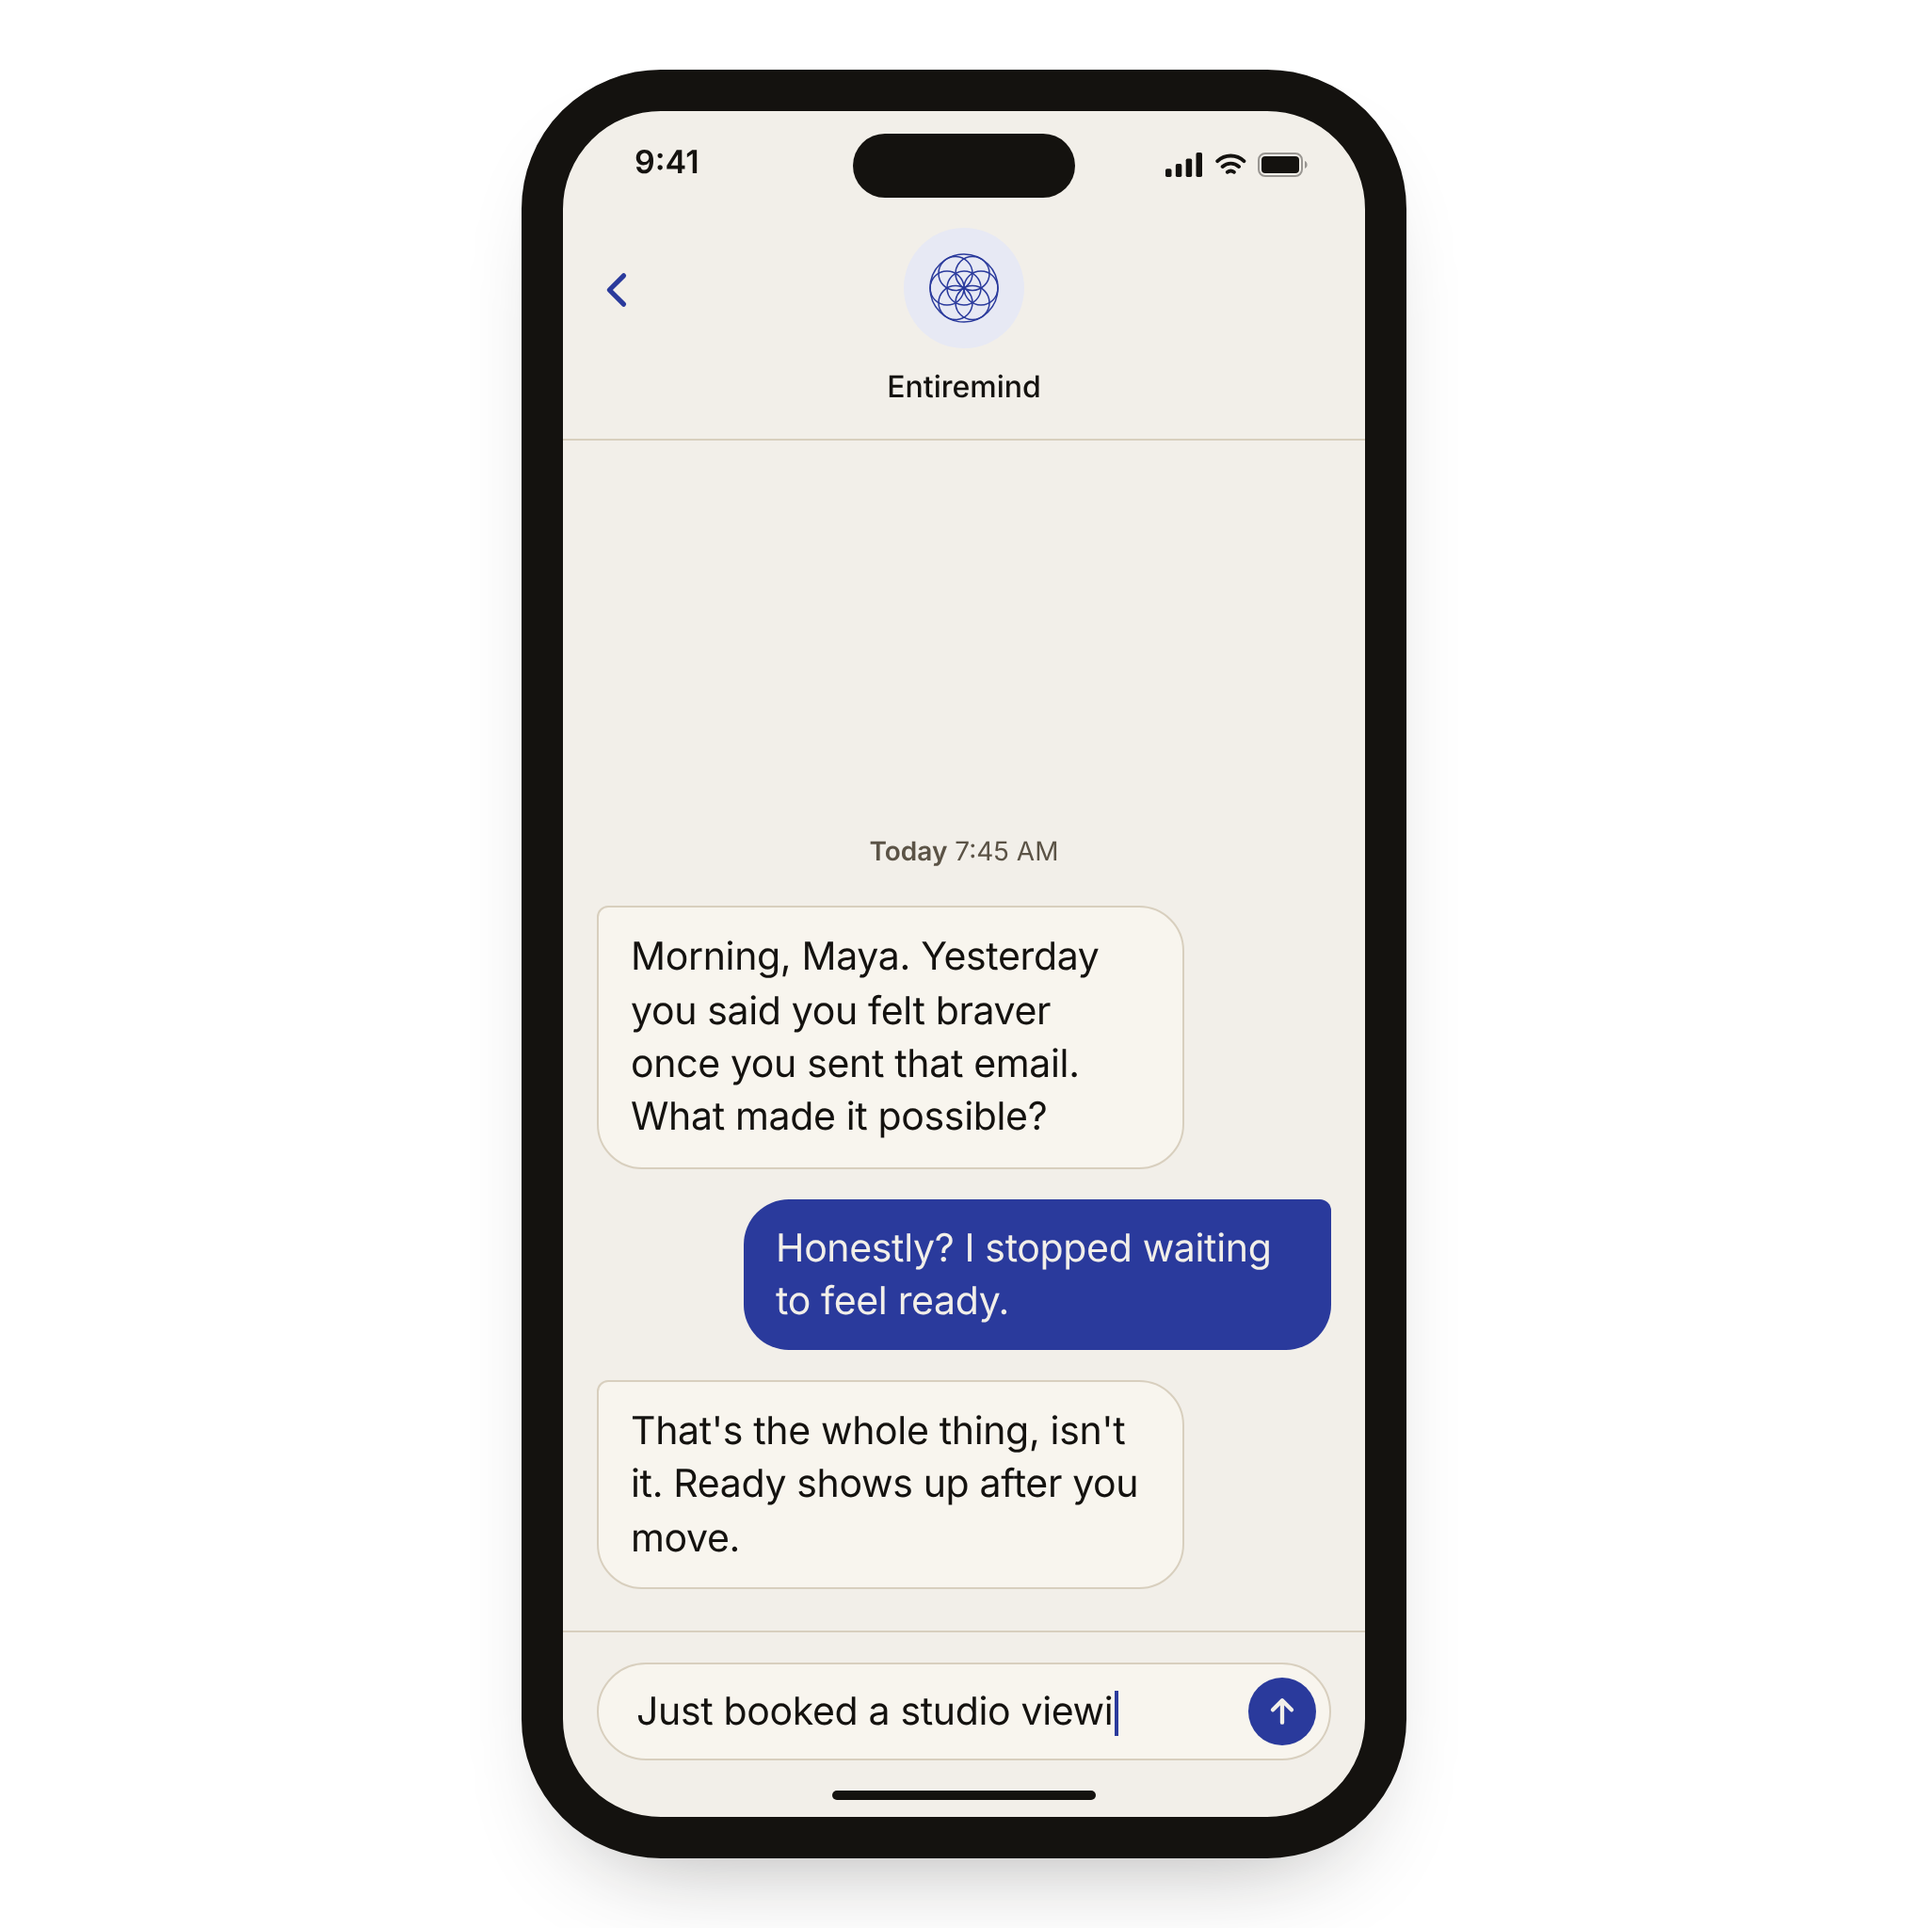
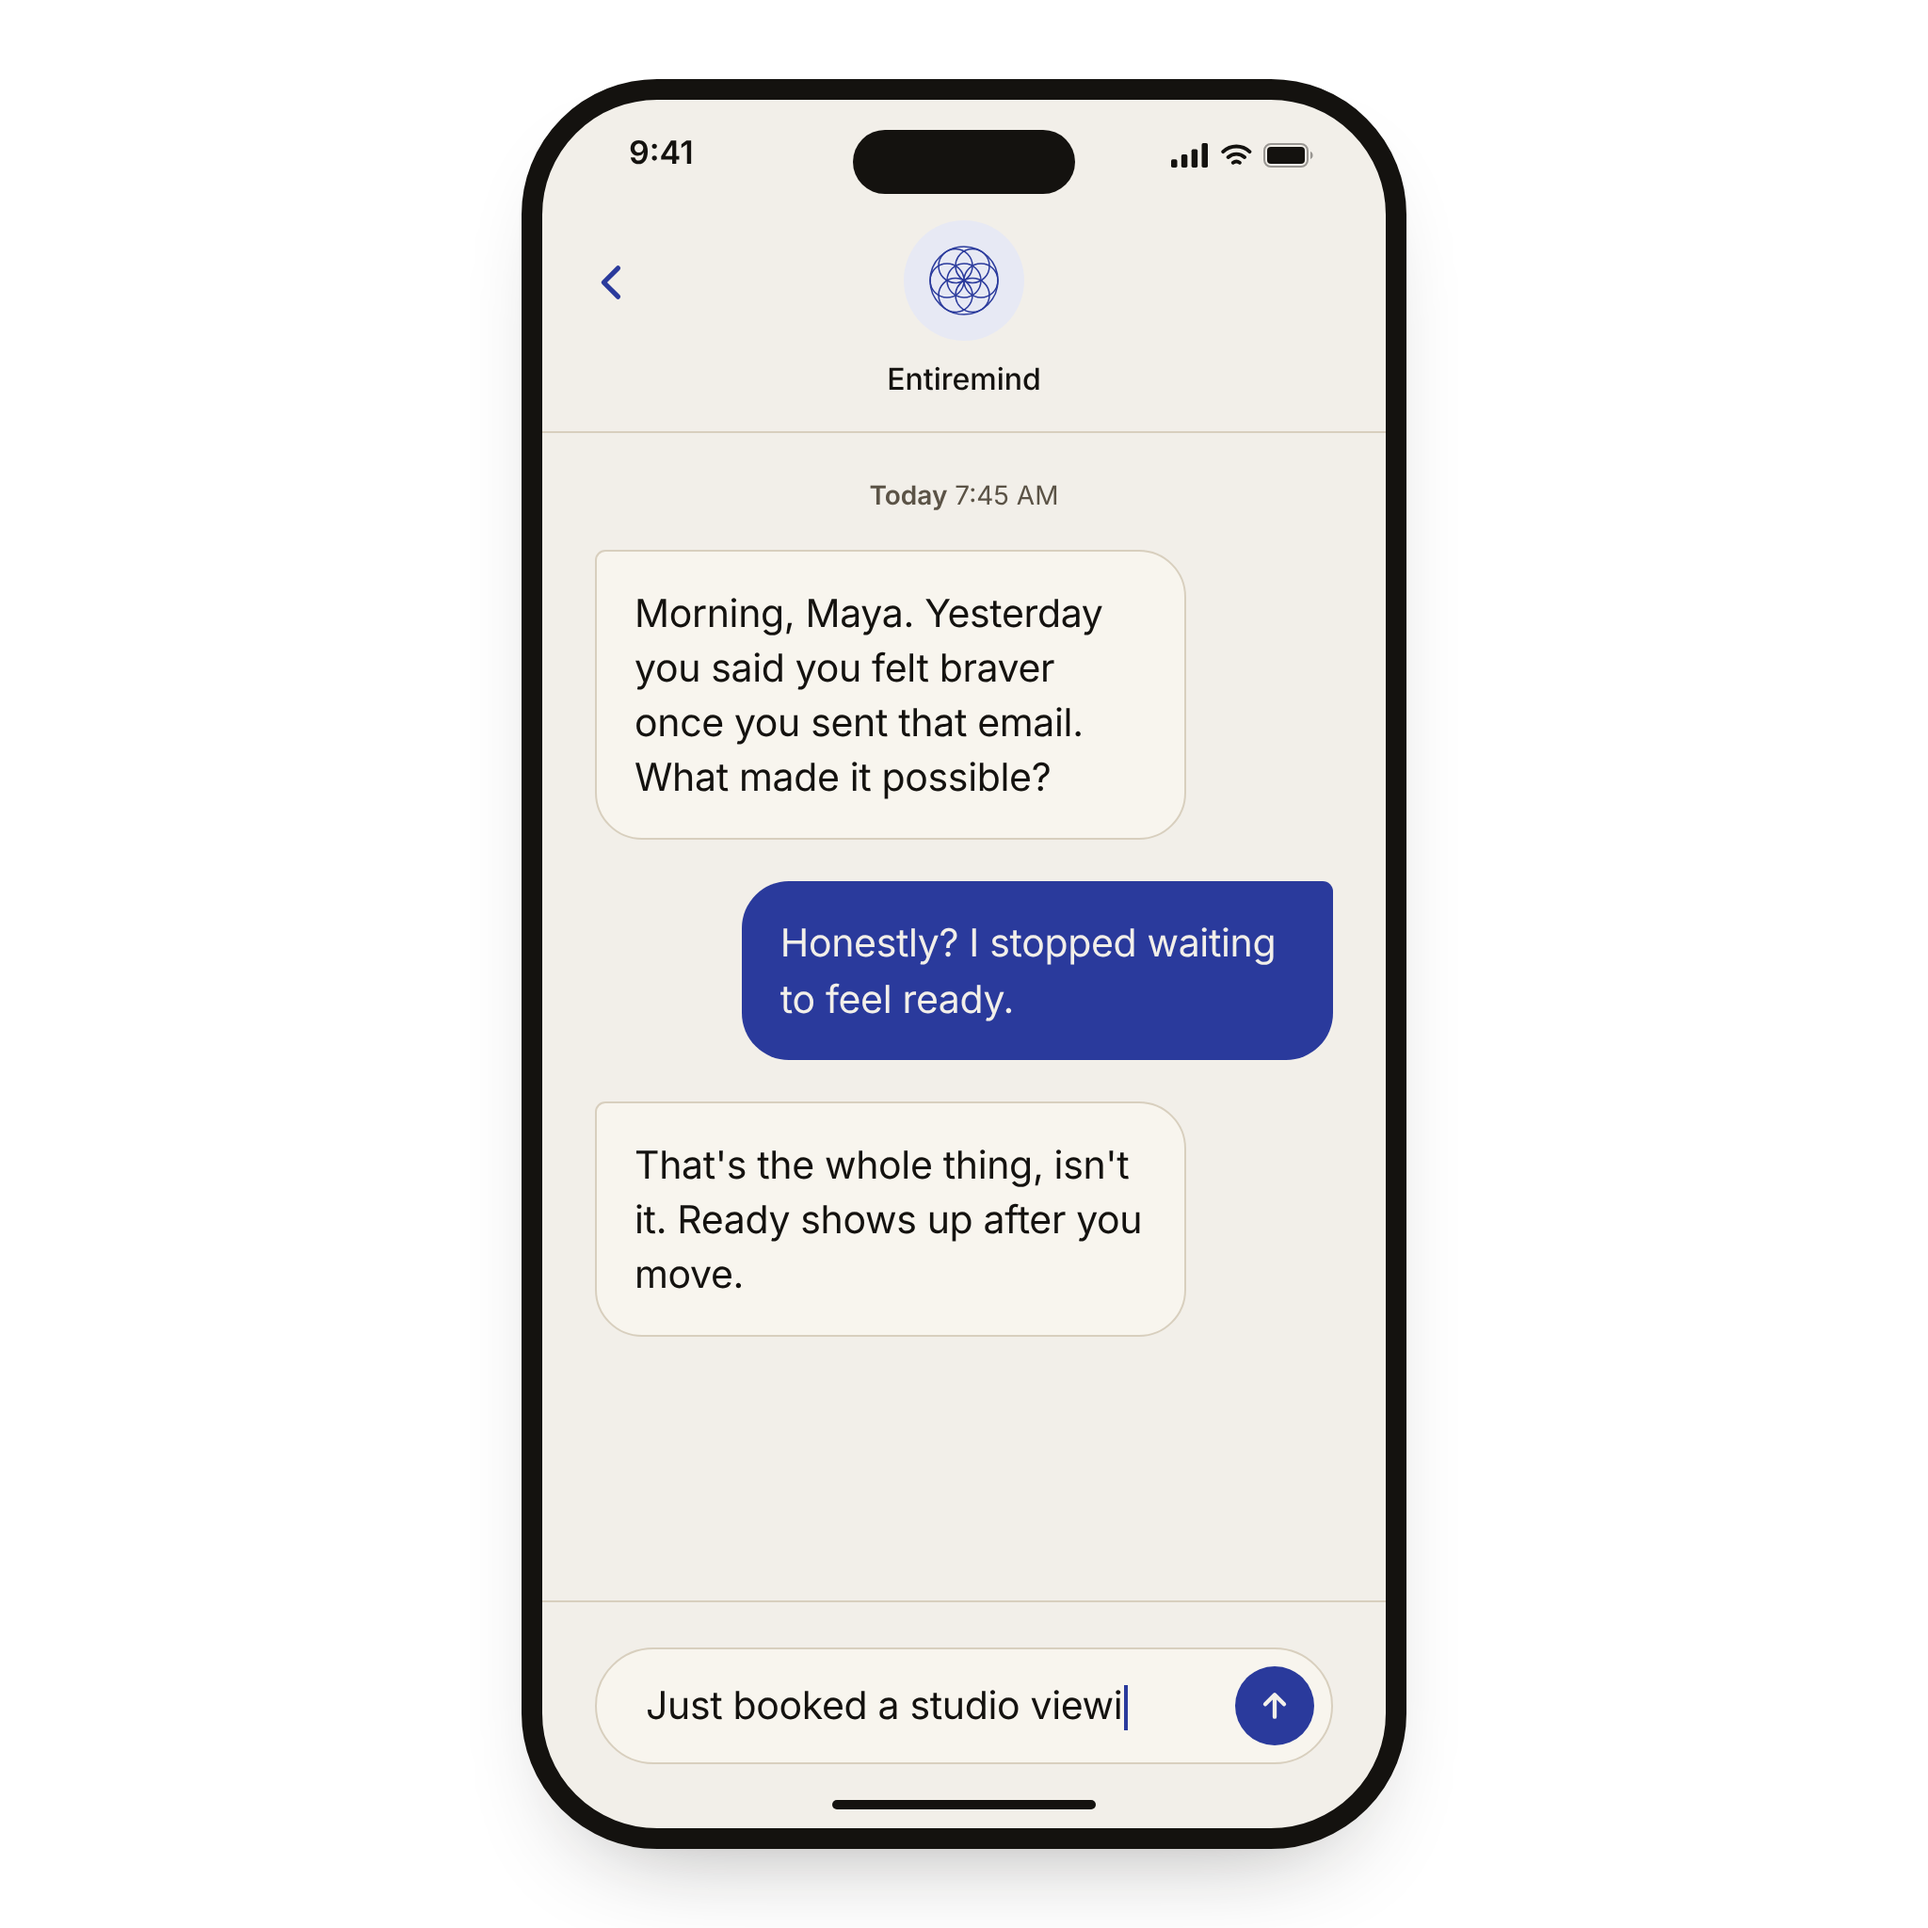
SmsPhone: landing-page proportions, thinner frame, thread at top
Frame, radius, bubble, composer and padding sizes now follow
PhoneMockup (340x680, 8px frame, 52px radius) scaled to the canvas,
which halves the ink frame. The short conversation starts under the
header, as Messages shows it.

Claude-Session: https://claude.ai/code/session_01XFR3k6ZrktobPacJJyLqAi

diff --git a/src/components/landing/sms-phone.module.css b/src/components/landing/sms-phone.module.css
@@ -4,7 +4,9 @@
  * language, but on the 1024-unit --u canvas HeroPhone uses, so it renders
  * crisply at any size and drops into HeroScene.
  *
- * Device: x 277–747, y 37–987 on the canvas. Screen inset by the 22u frame.
+ * Dimensions follow PhoneMockup (340 × 680, 8px frame, 52px radius) scaled
+ * by 470/340: device x 277–747, y 42–982, an 11u frame, a 72u radius.
+ * Bubble, composer and padding proportions are scaled the same way.
  */
 
 .frame {
@@ -27,12 +29,12 @@
 .device {
   position: absolute;
   left: calc(var(--u) * 277);
-  top: calc(var(--u) * 37);
+  top: calc(var(--u) * 42);
   width: calc(var(--u) * 470);
-  height: calc(var(--u) * 950);
+  height: calc(var(--u) * 940);
   box-sizing: border-box;
-  border: calc(var(--u) * 22) solid var(--color-ink);
-  border-radius: calc(var(--u) * 74);
+  border: calc(var(--u) * 11) solid var(--color-ink);
+  border-radius: calc(var(--u) * 72);
   overflow: hidden;
   background: var(--color-linen);
   /* The single contact shadow DESIGN.md permits under a product object. */
@@ -47,11 +49,11 @@
 .status {
   position: relative;
   flex: none;
-  height: calc(var(--u) * 56);
+  height: calc(var(--u) * 58);
   display: flex;
   align-items: center;
   justify-content: space-between;
-  padding: 0 calc(var(--u) * 30) 0 calc(var(--u) * 38);
+  padding: 0 calc(var(--u) * 38) 0 calc(var(--u) * 46);
   font-size: calc(var(--u) * 17);
   font-weight: 600;
   letter-spacing: 0;
@@ -60,7 +62,7 @@
 .island {
   position: absolute;
   left: 50%;
-  top: calc(var(--u) * 12);
+  top: calc(var(--u) * 16);
   width: calc(var(--u) * 118);
   height: calc(var(--u) * 34);
   margin-left: calc(var(--u) * -59);
@@ -94,7 +96,7 @@
 
 .back {
   position: absolute;
-  left: calc(var(--u) * 16);
+  left: calc(var(--u) * 24);
   top: calc(var(--u) * 26);
   width: calc(var(--u) * 26);
   height: calc(var(--u) * 26);
@@ -125,13 +127,13 @@
 
 /* ---- Thread ---------------------------------------------------------- */
 
-/* Newest messages sit just above the composer, as in Messages. */
+/* A short conversation starts at the top, under the header. */
 .thread {
   flex: 1;
   display: flex;
   flex-direction: column;
-  justify-content: flex-end;
-  padding: 0 calc(var(--u) * 18) calc(var(--u) * 22);
+  justify-content: flex-start;
+  padding: calc(var(--u) * 22) calc(var(--u) * 28) 0;
 }
 
 .day {
@@ -149,50 +151,50 @@
 .bubble {
   max-width: 80%;
   box-sizing: border-box;
-  padding: calc(var(--u) * 12) calc(var(--u) * 17);
-  border-radius: calc(var(--u) * 24);
+  padding: calc(var(--u) * 18) calc(var(--u) * 20);
+  border-radius: calc(var(--u) * 25);
   font-size: calc(var(--u) * 20.5);
-  line-height: 1.38;
+  line-height: 1.42;
 }
 
 .in {
   align-self: flex-start;
-  border-top-left-radius: calc(var(--u) * 6);
+  border-top-left-radius: calc(var(--u) * 5.5);
   background: var(--color-surface);
   border: calc(var(--u) * 1) solid var(--color-rule);
 }
 
 .out {
   align-self: flex-end;
-  border-top-right-radius: calc(var(--u) * 6);
+  border-top-right-radius: calc(var(--u) * 5.5);
   background: var(--color-cobalt);
   color: var(--color-linen);
 }
 
 .gapSmall {
-  margin-top: calc(var(--u) * 6);
+  margin-top: calc(var(--u) * 8);
 }
 
 .gapLarge {
-  margin-top: calc(var(--u) * 16);
+  margin-top: calc(var(--u) * 22);
 }
 
 /* ---- Composer -------------------------------------------------------- */
 
 .footer {
   flex: none;
-  padding: calc(var(--u) * 16) calc(var(--u) * 18) calc(var(--u) * 30);
+  padding: calc(var(--u) * 24) calc(var(--u) * 28) calc(var(--u) * 34);
   border-top: calc(var(--u) * 1) solid var(--color-rule);
   position: relative;
 }
 
 .composer {
-  height: calc(var(--u) * 52);
+  height: calc(var(--u) * 62);
   box-sizing: border-box;
   display: flex;
   align-items: center;
   gap: calc(var(--u) * 10);
-  padding: 0 calc(var(--u) * 7) 0 calc(var(--u) * 20);
+  padding: 0 calc(var(--u) * 9) 0 calc(var(--u) * 26);
   border-radius: 999px;
   background: var(--color-surface);
   border: calc(var(--u) * 1) solid var(--color-rule);
@@ -223,8 +225,8 @@
 
 .send {
   flex: none;
-  width: calc(var(--u) * 36);
-  height: calc(var(--u) * 36);
+  width: calc(var(--u) * 42);
+  height: calc(var(--u) * 42);
   border-radius: 50%;
   background: var(--color-cobalt);
   color: var(--color-linen);
@@ -240,7 +242,7 @@
 .homeBar {
   position: absolute;
   left: 50%;
-  bottom: calc(var(--u) * 9);
+  bottom: calc(var(--u) * 10);
   width: calc(var(--u) * 140);
   height: calc(var(--u) * 5);
   margin-left: calc(var(--u) * -70);
